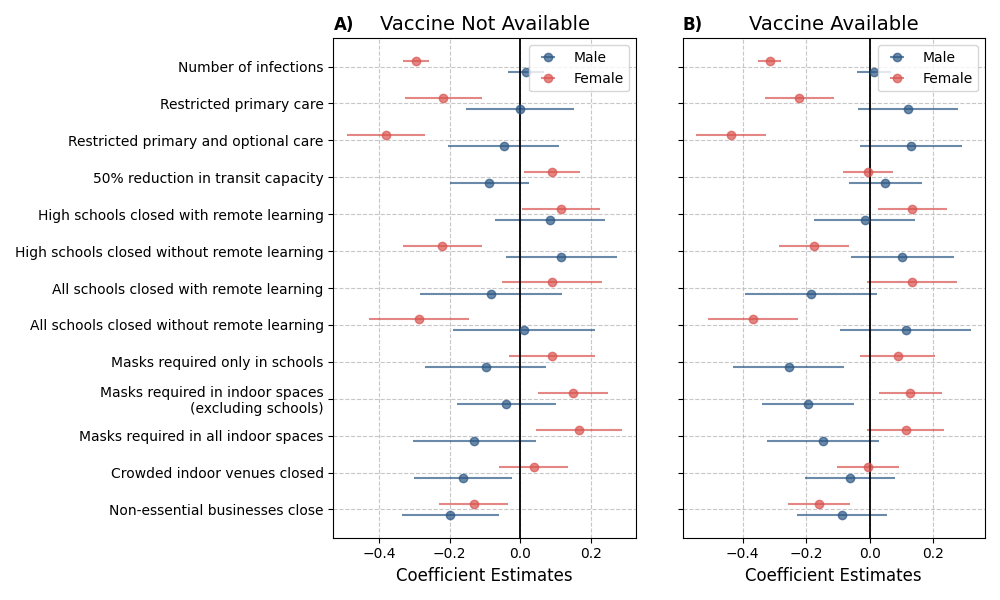
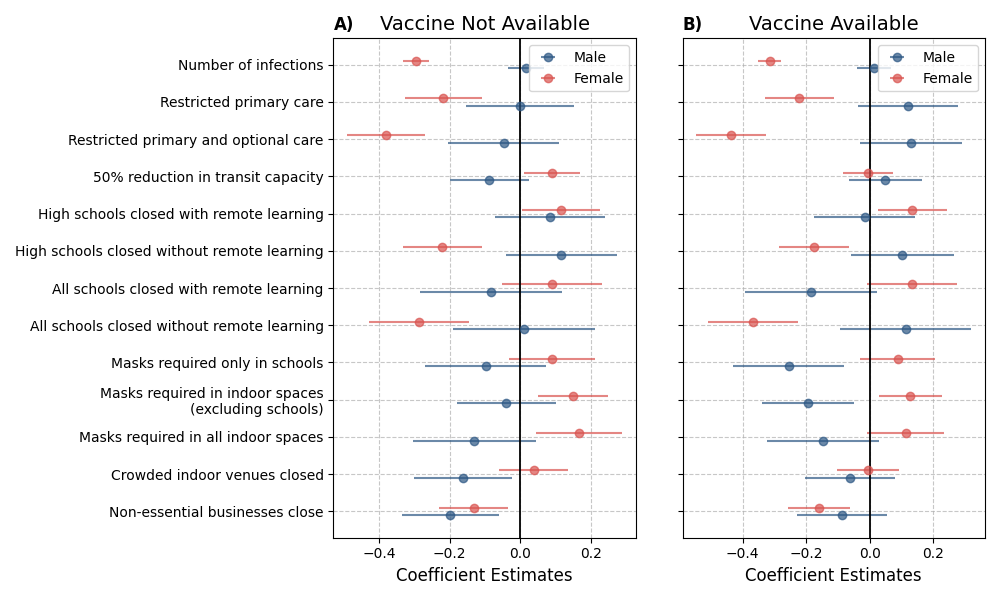
before multiple subgroup figure

diff --git a/main_fig.py b/main_fig.py
@@ -7,7 +7,6 @@ from support.func_support import get_coefs_and_errs_by_vaccine, get_wtas_and_err
 FIG_SIZE = (10, 6)
 
 def do_main_figure():
-
     # read results for vaccine and no vaccine scenarios
     results_no_vaccine = get_table(
         file_path='estimates/results_drop_first_level_no_vaccine_WTP.csv',
@@ -46,7 +45,7 @@ def do_main_figure():
         labels=['No Vaccine', 'Vaccine'],
         y_axis_labels=dict_coeff_labels.values(),
         legend_loc='upper right',
-        distance_between_bars=0.3
+        distance_between_bars=0.2
     )
 
     plt.tight_layout(w_pad=3)

diff --git a/subgroup.py b/subgroup.py
@@ -12,5 +12,5 @@ if __name__ == '__main__':
             group_name='gender',
             group_categories=['Male', 'Female'],
             group_colors = ['#2C5784', '#D9534F'],
-            distance_between_bars=0.3,
+            distance_between_bars=0.2,
             fig_size=FIG_SIZE)
